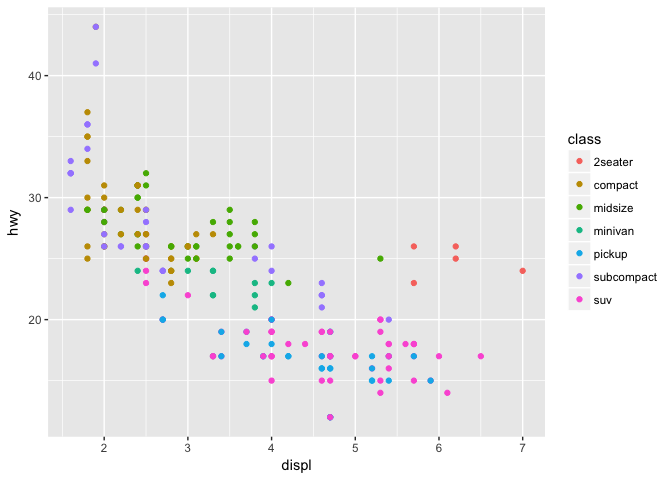
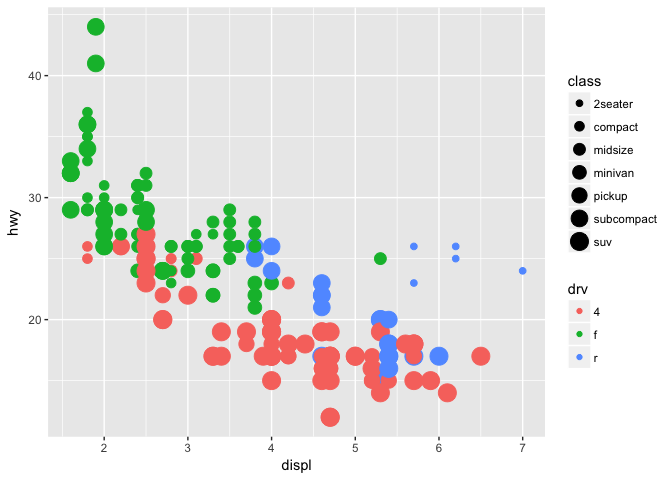
jugh

diff --git a/first_rmd_filename.md b/first_rmd_filename.md
@@ -36,7 +36,7 @@ install.packages("tidyr",repos = "http://cran.us.r-project.org")
 
     ## 
     ## The downloaded binary packages are in
-    ##  /var/folders/l7/y2ztr08x2qb06_dtl31rdcz00000gn/T//RtmpqqX9xc/downloaded_packages
+    ##  /var/folders/l7/y2ztr08x2qb06_dtl31rdcz00000gn/T//RtmpfGIJeu/downloaded_packages
 
 ``` r
 library(tidyverse)
@@ -60,7 +60,9 @@ library(tidyverse)
 
 ``` r
 ggplot(data = mpg) + 
-  geom_point(mapping = aes(x = displ, y = hwy, color = class))
+  geom_point(mapping = aes(x = displ, y = hwy,size = class, color = drv))
 ```
+
+    ## Warning: Using size for a discrete variable is not advised.
 
 ![](first_rmd_filename_files/figure-markdown_github-ascii_identifiers/unnamed-chunk-3-1.png)
